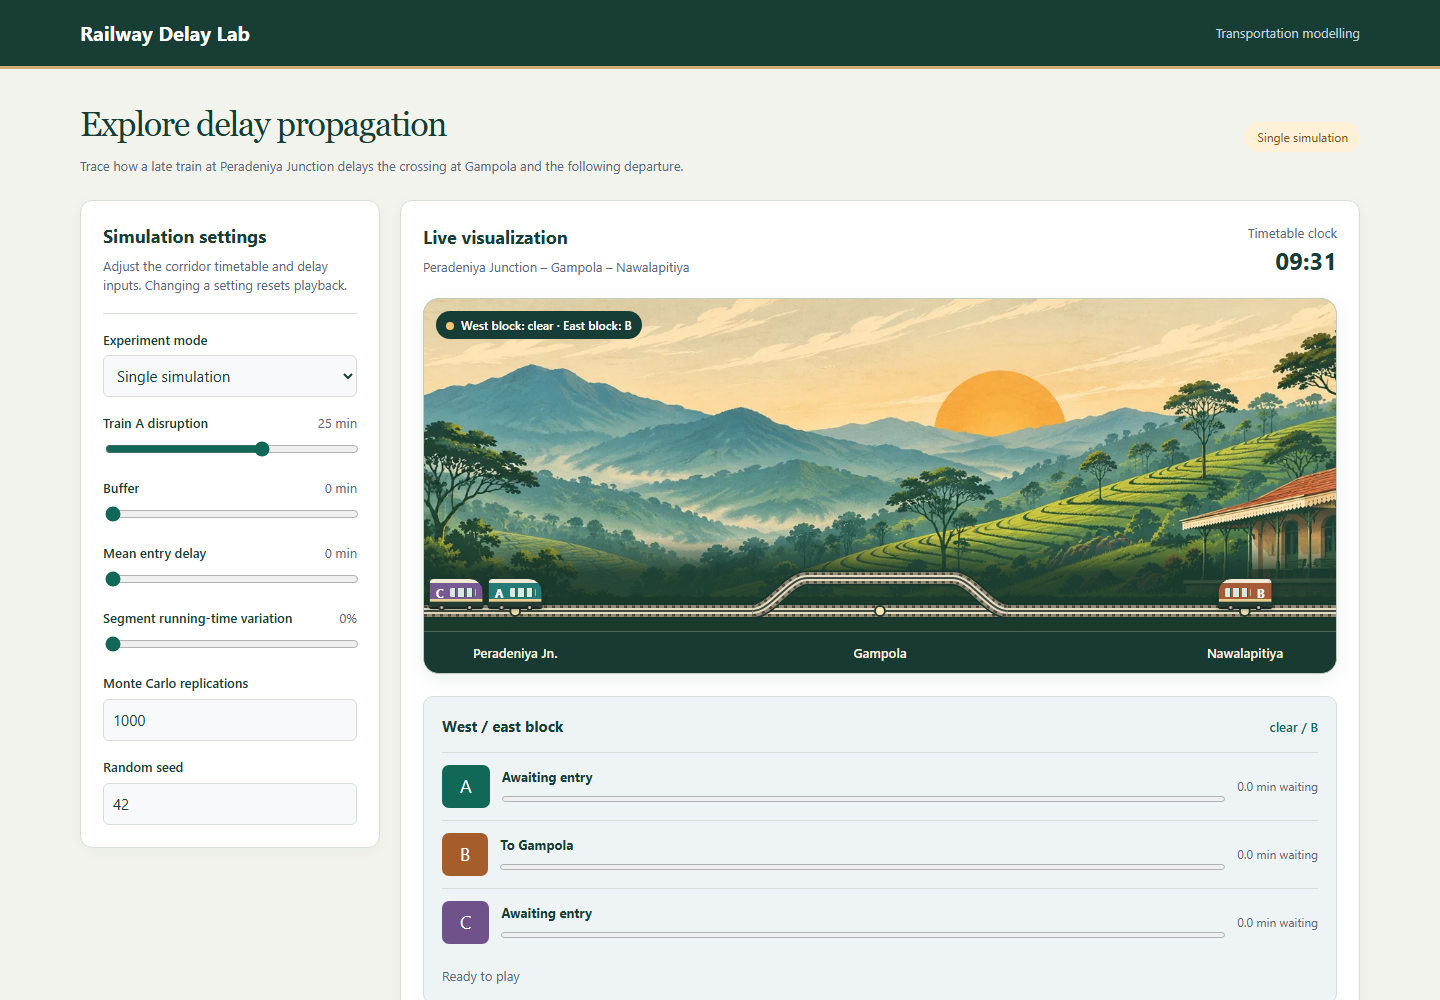
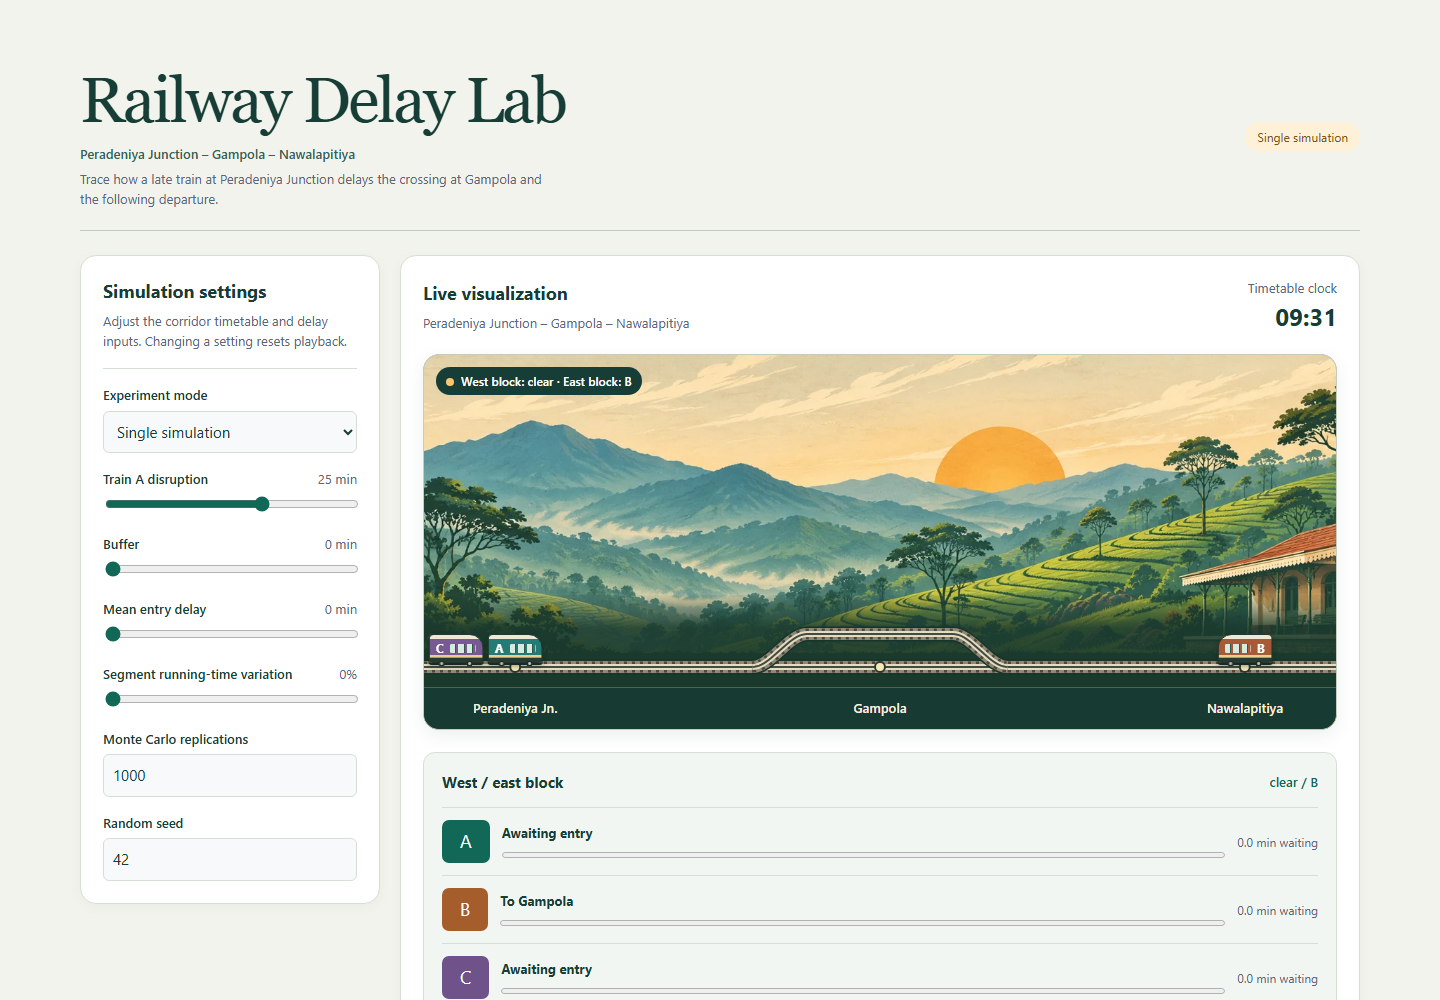
Simplify the dashboard title and refresh the responsive layout

diff --git a/docs/style.css b/docs/style.css
@@ -48,7 +48,6 @@
 .rail-scene figcaption::before { content: ""; display: inline-block; width: 8px; height: 8px; border-radius: 50%; margin-right: 7px; background: #9be6af; }
 .rail-scene.occupied figcaption::before { background: #ffc672; }
 body:has(.rail-scene) { background: #f1f3ec; --ink: #173e36; --accent: #116856; --line: #d6dfd6; }
-body > header { background: #183d34; border-bottom: 3px solid #ceae73; }
 main .intro h1 { font-family: Georgia, serif; font-weight: 500; }
 .dashboard .panel { box-shadow: 0 3px 14px #15392b09; }
 .dashboard button:enabled:hover { filter: brightness(.94); }
@@ -58,9 +57,6 @@ main .intro h1 { font-family: Georgia, serif; font-weight: 500; }
 }
 * { box-sizing: border-box; }
 body { margin: 0; background: #f3f6f9; color: var(--ink); font: 15px/1.5 "Segoe UI", system-ui, sans-serif; }
-header { display: flex; align-items: center; justify-content: space-between; gap: 16px; background: #192b40; color: white; padding: 18px max(24px, calc((100vw - 1280px) / 2)); }
-header strong { font-size: 20px; }
-header span { font-size: 13px; color: #c4d1df; }
 main { max-width: 1328px; margin: auto; padding: 30px 24px; }
 h1, h2, h3, p { margin: 0; }
 h1 { font-size: clamp(24px, 3vw, 34px); letter-spacing: -.035em; }
@@ -69,11 +65,15 @@ h3 { font-size: 15px; }
 p, small { color: var(--muted); font-size: 13px; }
 p { margin-top: 6px; }
 .intro, .heading { display: flex; align-items: center; justify-content: space-between; gap: 16px; }
-.intro { margin-bottom: 24px; }
+.intro { margin: 0 0 24px; padding: clamp(12px, 3vw, 36px) 0 22px; border-bottom: 1px solid #bccdc1; }
+.intro h1 { font-size: clamp(38px, 5vw, 64px); line-height: 1.06; }
+.intro .route-title { color: #356253; font-weight: 600; margin: 10px 0 4px; }
+.intro p { max-width: 68ch; }
+:focus-visible { outline: 3px solid #26736b; outline-offset: 3px; }
 .badge { background: #fff0d8; color: #805019; padding: 6px 12px; border-radius: 20px; font-size: 12px; white-space: nowrap; }
 .dashboard { display: grid; grid-template-columns: 300px minmax(0, 1fr); gap: 20px; align-items: start; }
 .content { display: grid; gap: 20px; min-width: 0; }
-.panel { background: white; border: 1px solid var(--line); border-radius: 12px; padding: 22px; }
+.panel { background: white; border: 1px solid var(--line); border-radius: 16px; padding: 22px; }
 fieldset { border: 0; border-top: 1px solid var(--line); margin: 18px 0 0; padding: 0; min-width: 0; }
 label { display: block; font-size: 13px; font-weight: 600; margin: 16px 0 6px; }
 label span { float: right; color: var(--muted); font-weight: 400; }
@@ -94,7 +94,7 @@ button:first-child { background: #d9e9ee; }
 button:disabled, input:disabled, select:disabled { cursor: not-allowed; }
 .buttons button:not(:disabled) { cursor: pointer; color: var(--ink); }
 .buttons button#start:not(:disabled) { background: var(--accent); color: white; }
-.queue-view { margin: 22px 0; border: 1px solid var(--line); border-radius: 10px; background: #eef4f6; padding: 18px; }
+.queue-view { margin: 22px 0; border: 1px solid var(--line); border-radius: 12px; background: #f2f6f2; padding: 18px; }
 .resource-heading { display: flex; justify-content: space-between; align-items: center; gap: 12px; margin-bottom: 14px; }
 #resource-state { color: var(--accent); font-size: 13px; font-weight: 600; }
 .queue-lane { display: grid; grid-template-columns: auto minmax(0, 1fr) auto; align-items: center; gap: 12px; padding: 12px 0; border-top: 1px solid var(--line); }
@@ -136,8 +136,6 @@ summary { cursor: pointer; font-weight: 700; }
 }
 @media (max-width: 540px) {
   main { padding: 18px 12px; }
-  header { padding: 14px 12px; }
-  header span { display: none; }
   .intro, .heading { flex-wrap: wrap; align-items: flex-start; }
   .panel { padding: 15px; }
   .scene { padding: 12px; gap: 5px; min-height: 150px; }

diff --git a/docs/index.html b/docs/index.html
@@ -7,10 +7,9 @@
   <link rel="stylesheet" href="style.css">
 </head>
 <body>
-  <header><strong>Railway Delay Lab</strong><span>Transportation modelling</span></header>
   <main>
     <div class="intro">
-      <div><h1>Explore delay propagation</h1><p>Trace how a late train at Peradeniya Junction delays the crossing at Gampola and the following departure.</p></div>
+      <div><h1>Railway Delay Lab</h1><p class="route-title">Peradeniya Junction &ndash; Gampola &ndash; Nawalapitiya</p><p>Trace how a late train at Peradeniya Junction delays the crossing at Gampola and the following departure.</p></div>
       <span class="badge" id="mode-badge">Single simulation</span>
     </div>
     <div class="dashboard">
